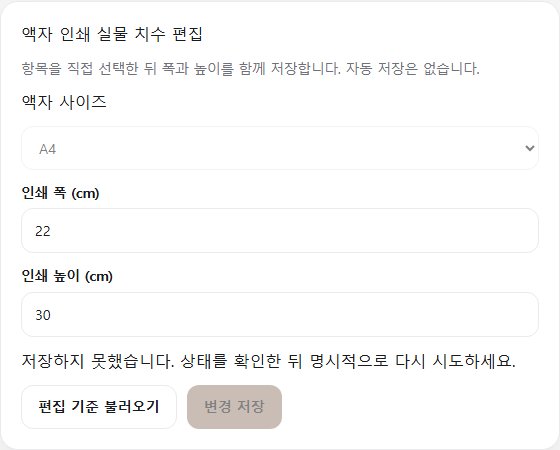
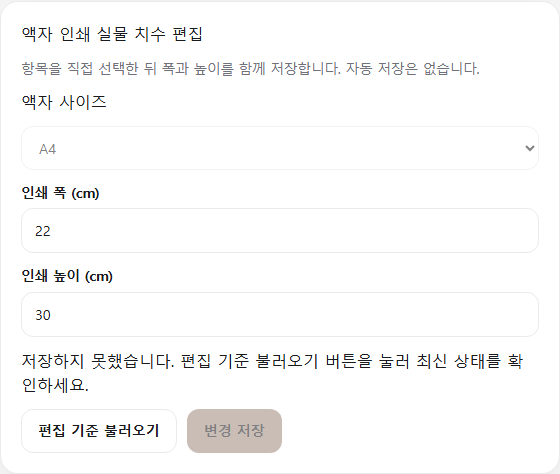
spec 094: clarify C5 failure recovery action guidance

diff --git a/apps/admin/src/admin-write/FramePrintSizeEditor.recovery-message.test.tsx b/apps/admin/src/admin-write/FramePrintSizeEditor.recovery-message.test.tsx
@@ -1,0 +1,77 @@
+import { renderToStaticMarkup } from "react-dom/server";
+import { expect, it, vi } from "vitest";
+import type { AdminWriteErrorCode } from "@denn/firebase/admin-write";
+import { FramePrintSizeEditor } from "./FramePrintSizeEditor";
+import type { AdminWriteSessionController, AdminWriteSessionSnapshot } from "./session-controller";
+
+function render(snapshot: AdminWriteSessionSnapshot) {
+  const controller: AdminWriteSessionController = {
+    getSnapshot: () => snapshot,
+    getBaseline: () => ({
+      revision: 3,
+      source: "rebuild",
+      promotedLegacyPrintSizeIds: [],
+      catalog: { schemaVersion: 1, migratedFrom: "legacy-v0", data: {} },
+    }),
+    subscribe: () => () => undefined,
+    loadBaseline: vi.fn(async () => undefined),
+    save: vi.fn(async () => undefined),
+    setDraftState: vi.fn(),
+    dispose: vi.fn(),
+  };
+  const html = renderToStaticMarkup(<FramePrintSizeEditor controller={controller} />);
+  expect(controller.loadBaseline).not.toHaveBeenCalled();
+  expect(controller.save).not.toHaveBeenCalled();
+  expect(controller.setDraftState).not.toHaveBeenCalled();
+  expect(html).toContain('role="status" aria-live="polite" data-testid="frame-print-size-status"');
+  expect(html).not.toMatch(/WRITE_|rebuild-admin-state|@denn|https?:\/\//);
+  return html;
+}
+
+const SAVE_ERRORS: readonly AdminWriteErrorCode[] = [
+  "WRITE_UPLOAD_FAILED",
+  "WRITE_HEAD_FAILED",
+  "WRITE_CLAIM_FAILED",
+  "WRITE_AUTH_REQUIRED",
+  "WRITE_FORBIDDEN",
+  "WRITE_INVALID_INPUT",
+];
+it.each(SAVE_ERRORS)("names the allowed recovery action without exposing %s", (errorCode) => {
+  const canSave = errorCode === "WRITE_UPLOAD_FAILED";
+  const html = render({
+    status: "save-error",
+    revision: 3,
+    source: "rebuild",
+    errorCode,
+    canLoad: true,
+    canEdit: false,
+    canSave,
+  });
+  const saveButton = html.match(/<button[^>]*>변경 저장<\/button>/)?.[0];
+  expect(saveButton).toBeDefined();
+  expect(saveButton?.includes('disabled=""')).toBe(!canSave);
+  expect(html).toContain(
+    canSave
+      ? "저장하지 못했습니다. 변경 저장 버튼을 눌러 다시 시도할 수 있습니다."
+      : "저장하지 못했습니다. 편집 기준 불러오기 버튼을 눌러 최신 상태를 확인하세요.",
+  );
+  expect(html).not.toContain("상태를 확인한 뒤 명시적으로 다시 시도하세요");
+});
+
+it.each([
+  ["conflict", "다른 저장이 먼저 반영됐습니다. 최신 상태를 다시 불러오세요."],
+  ["outcome-unknown", "저장 결과를 확인할 수 없습니다. 최신 상태를 다시 불러오세요."],
+  ["auth-blocked", "운영자 로그인이 필요합니다."],
+] as const)("preserves the existing %s message", (status, text) => {
+  const html = render({
+    status,
+    revision: status === "auth-blocked" ? null : 3,
+    source: status === "auth-blocked" ? null : "rebuild",
+    errorCode: null,
+    canLoad: status !== "auth-blocked",
+    canEdit: false,
+    canSave: false,
+  });
+  expect(html).toContain(text);
+  expect(html).not.toContain("저장하지 못했습니다.");
+});

diff --git a/apps/admin/src/admin-write/FramePrintSizeEditor.tsx b/apps/admin/src/admin-write/FramePrintSizeEditor.tsx
@@ -20,7 +20,6 @@ const STATUS_MESSAGE: Record<string, string> = {
   conflict: "다른 저장이 먼저 반영됐습니다. 최신 상태를 다시 불러오세요.",
   "outcome-unknown": "저장 결과를 확인할 수 없습니다. 최신 상태를 다시 불러오세요.",
   "load-error": "편집 기준을 불러오지 못했습니다.",
-  "save-error": "저장하지 못했습니다. 상태를 확인한 뒤 명시적으로 다시 시도하세요.",
 };
 
 function canonicalText(item: CatalogItemV1, key: "printWidthCm" | "printHeightCm"): string {
@@ -102,6 +101,13 @@ export function FramePrintSizeEditor({ controller }: FramePrintSizeEditorProps):
   };
 
   const editable = snapshot.canEdit && selected !== null;
+  // Use the same capability that enables the save button; this does not grant a retry.
+  const statusMessage =
+    snapshot.status === "save-error"
+      ? snapshot.canSave
+        ? "저장하지 못했습니다. 변경 저장 버튼을 눌러 다시 시도할 수 있습니다."
+        : "저장하지 못했습니다. 편집 기준 불러오기 버튼을 눌러 최신 상태를 확인하세요."
+      : STATUS_MESSAGE[snapshot.status];
   return (
     <Card>
       <div className="denn-stack" data-testid="frame-print-size-editor">
@@ -157,7 +163,7 @@ export function FramePrintSizeEditor({ controller }: FramePrintSizeEditorProps):
         />
 
         <div role="status" aria-live="polite" data-testid="frame-print-size-status">
-          {STATUS_MESSAGE[snapshot.status]}
+          {statusMessage}
         </div>
         <div className="denn-row">
           <Button

diff --git a/tests/e2e/admin-write-pending-error.spec.ts b/tests/e2e/admin-write-pending-error.spec.ts
@@ -27,8 +27,8 @@ const MESSAGES = {
   loading: "편집 기준을 불러오는 중입니다.",
   saving: "변경을 저장하는 중입니다.",
   "load-error": "편집 기준을 불러오지 못했습니다.",
-  "upload-failed": "저장하지 못했습니다. 상태를 확인한 뒤 명시적으로 다시 시도하세요.",
-  "head-failed": "저장하지 못했습니다. 상태를 확인한 뒤 명시적으로 다시 시도하세요.",
+  "upload-failed": "저장하지 못했습니다. 변경 저장 버튼을 눌러 다시 시도할 수 있습니다.",
+  "head-failed": "저장하지 못했습니다. 편집 기준 불러오기 버튼을 눌러 최신 상태를 확인하세요.",
   "auth-blocked": "운영자 로그인이 필요합니다.",
 };
 const records: Record<string, unknown> = {};

diff --git a/docs/rebuild/results/spec-093/README.md b/docs/rebuild/results/spec-093/README.md
@@ -4,23 +4,28 @@
 준비 및 명시 복구: [093 계약](../../specs/093-admin-c5-pending-error-audit.md).
 시각 판정: [감사 보고서](../../../codex-claude-handoff/reviews/2026-09-07-spec-093-admin-c5-pending-error-audit.md).
 
+2026-09-07 spec094 재검증: upload-failed/head-failed 6PNG·측정·해시를 문구 수정 후 갱신했다.
+나머지12PNG는093과 byte 동일. F-9 해소 판정과 현재 시각 결과는
+[094 검수](../../../codex-claude-handoff/reviews/2026-09-07-spec-094-admin-c5-recovery-guidance.md) 참조.
+수정 전093 증거는 `1e322c1`에 보존되며 과거 판정과 현재 PNG를 혼동하지 않는다.
+
 | PNG | State/preparation (contract) | Viewport | Provenance | URL | Selector | SHA-256 | Verdict |
 |---|---|---|---|---|---|---|---|
 | c5-loading-320x568.png | loading | 320x568 | PRODUCT_COMPONENT_IN_SYNTHETIC_FIXTURE | http://localhost:4184/e2e-admin-write-fixture.html?audit=spec093 | .denn-card:has([data-testid="frame-print-size-editor"]) | a1e8e18395f516ec09b74ced21a836b139449ac8be208fd5082903c00762055e | PASS / visual: report |
 | c5-saving-320x568.png | saving | 320x568 | PRODUCT_COMPONENT_IN_SYNTHETIC_FIXTURE | http://localhost:4184/e2e-admin-write-fixture.html?audit=spec093 | .denn-card:has([data-testid="frame-print-size-editor"]) | b8bafcf0a9b964a132b542a5fbdb2dbd16b8cf9b963dc3b2d12baf9a5b1c2431 | PASS / visual: report |
 | c5-load-error-320x568.png | load-error | 320x568 | PRODUCT_COMPONENT_IN_SYNTHETIC_FIXTURE | http://localhost:4184/e2e-admin-write-fixture.html?audit=spec093 | .denn-card:has([data-testid="frame-print-size-editor"]) | e209ca241913e790e499bbffb82e0e185d87ced67f84eac7968feb8779ee113b | PASS / visual: report |
-| c5-upload-failed-320x568.png | upload-failed | 320x568 | PRODUCT_COMPONENT_IN_SYNTHETIC_FIXTURE | http://localhost:4184/e2e-admin-write-fixture.html?audit=spec093 | .denn-card:has([data-testid="frame-print-size-editor"]) | 1e5ddfd54cdba9bb82c69ce0191e9e876d320041df64e9f774ad008bdbb64f6d | PASS / visual: report |
-| c5-head-failed-320x568.png | head-failed | 320x568 | PRODUCT_COMPONENT_IN_SYNTHETIC_FIXTURE | http://localhost:4184/e2e-admin-write-fixture.html?audit=spec093 | .denn-card:has([data-testid="frame-print-size-editor"]) | c5961bd309fbd5ce921f3b8f564f0e28542be7526585443faef27f96cd676f76 | PASS / visual: report |
+| c5-upload-failed-320x568.png | upload-failed | 320x568 | PRODUCT_COMPONENT_IN_SYNTHETIC_FIXTURE | http://localhost:4184/e2e-admin-write-fixture.html?audit=spec093 | .denn-card:has([data-testid="frame-print-size-editor"]) | e12e0afadde039e3a4a44c7e91e43bd631bad989394427fa96022bc96b67a827 | PASS / visual: report |
+| c5-head-failed-320x568.png | head-failed | 320x568 | PRODUCT_COMPONENT_IN_SYNTHETIC_FIXTURE | http://localhost:4184/e2e-admin-write-fixture.html?audit=spec093 | .denn-card:has([data-testid="frame-print-size-editor"]) | 63b3d0a15b400e106ef37e416cf99b52b93cfb7d5dc06bba3bb800e15df91b18 | PASS / visual: report |
 | c5-auth-blocked-320x568.png | auth-blocked | 320x568 | PRODUCT_COMPONENT_IN_SYNTHETIC_FIXTURE | http://localhost:4184/e2e-admin-write-fixture.html?audit=spec093 | .denn-card:has([data-testid="frame-print-size-editor"]) | 0b52eca43f6d54dce7a9ec7535e4c7afc3ed0cff74b789a99506384ac5efcb08 | PASS / visual: report |
 | c5-loading-390x844.png | loading | 390x844 | PRODUCT_COMPONENT_IN_SYNTHETIC_FIXTURE | http://localhost:4184/e2e-admin-write-fixture.html?audit=spec093 | .denn-card:has([data-testid="frame-print-size-editor"]) | 3c8eb3c9faa04eddeed687d42939fab514139fd689c4df2a18bed983f8d7110b | PASS / visual: report |
 | c5-saving-390x844.png | saving | 390x844 | PRODUCT_COMPONENT_IN_SYNTHETIC_FIXTURE | http://localhost:4184/e2e-admin-write-fixture.html?audit=spec093 | .denn-card:has([data-testid="frame-print-size-editor"]) | f190cf6ff9290a79cbb9168e6e31ab89c5b76dfee16265efefe5835e2a888387 | PASS / visual: report |
 | c5-load-error-390x844.png | load-error | 390x844 | PRODUCT_COMPONENT_IN_SYNTHETIC_FIXTURE | http://localhost:4184/e2e-admin-write-fixture.html?audit=spec093 | .denn-card:has([data-testid="frame-print-size-editor"]) | cc58ac58098b6aa89763cc74411d72e737c15fb6deeacdc2767c4ba2ef864a80 | PASS / visual: report |
-| c5-upload-failed-390x844.png | upload-failed | 390x844 | PRODUCT_COMPONENT_IN_SYNTHETIC_FIXTURE | http://localhost:4184/e2e-admin-write-fixture.html?audit=spec093 | .denn-card:has([data-testid="frame-print-size-editor"]) | 2795b718314b2f5bc94f93841665874f0092dd7d65e6f9d539fb3ad1c4cdc6b1 | PASS / visual: report |
-| c5-head-failed-390x844.png | head-failed | 390x844 | PRODUCT_COMPONENT_IN_SYNTHETIC_FIXTURE | http://localhost:4184/e2e-admin-write-fixture.html?audit=spec093 | .denn-card:has([data-testid="frame-print-size-editor"]) | cc2a83ee05ceb384eac90932feb82738618b4a7e7c7172201cca4b7ea0c37200 | PASS / visual: report |
+| c5-upload-failed-390x844.png | upload-failed | 390x844 | PRODUCT_COMPONENT_IN_SYNTHETIC_FIXTURE | http://localhost:4184/e2e-admin-write-fixture.html?audit=spec093 | .denn-card:has([data-testid="frame-print-size-editor"]) | fb60c4057c156882b289ecdb98873a3358a4e473e6de6eef016d5229cfe08b32 | PASS / visual: report |
+| c5-head-failed-390x844.png | head-failed | 390x844 | PRODUCT_COMPONENT_IN_SYNTHETIC_FIXTURE | http://localhost:4184/e2e-admin-write-fixture.html?audit=spec093 | .denn-card:has([data-testid="frame-print-size-editor"]) | 54377e4a3e884ac0b975ccab772c1b72180f1bfc9e5b83b494459f60b82d28cd | PASS / visual: report |
 | c5-auth-blocked-390x844.png | auth-blocked | 390x844 | PRODUCT_COMPONENT_IN_SYNTHETIC_FIXTURE | http://localhost:4184/e2e-admin-write-fixture.html?audit=spec093 | .denn-card:has([data-testid="frame-print-size-editor"]) | b8ffa06903b597af8e5093587e7e89a7ce9caca494d199200b773f450c4d5f52 | PASS / visual: report |
 | c5-loading-1280x800.png | loading | 1280x800 | PRODUCT_COMPONENT_IN_SYNTHETIC_FIXTURE | http://localhost:4184/e2e-admin-write-fixture.html?audit=spec093 | .denn-card:has([data-testid="frame-print-size-editor"]) | b86f3f4702358952ad072e640661384187d5030fc21c5392120943356ccaeeca | PASS / visual: report |
 | c5-saving-1280x800.png | saving | 1280x800 | PRODUCT_COMPONENT_IN_SYNTHETIC_FIXTURE | http://localhost:4184/e2e-admin-write-fixture.html?audit=spec093 | .denn-card:has([data-testid="frame-print-size-editor"]) | ff275cf4aee8d9c493f0dc8597706995a76568bed6ea024b19b86cce92e3a093 | PASS / visual: report |
 | c5-load-error-1280x800.png | load-error | 1280x800 | PRODUCT_COMPONENT_IN_SYNTHETIC_FIXTURE | http://localhost:4184/e2e-admin-write-fixture.html?audit=spec093 | .denn-card:has([data-testid="frame-print-size-editor"]) | 4ddb2f1c4279ccc1d9a0c3b5b8e95609b16b4c8f0212aad3aa97e87a847087c8 | PASS / visual: report |
-| c5-upload-failed-1280x800.png | upload-failed | 1280x800 | PRODUCT_COMPONENT_IN_SYNTHETIC_FIXTURE | http://localhost:4184/e2e-admin-write-fixture.html?audit=spec093 | .denn-card:has([data-testid="frame-print-size-editor"]) | 0657b37107e16ffb488172d13fbaf0405d64cbc4137b454e6f67a580ddeb9d20 | PASS / visual: report |
-| c5-head-failed-1280x800.png | head-failed | 1280x800 | PRODUCT_COMPONENT_IN_SYNTHETIC_FIXTURE | http://localhost:4184/e2e-admin-write-fixture.html?audit=spec093 | .denn-card:has([data-testid="frame-print-size-editor"]) | 040c8b5fedd81299d9b1e9fa5044e5a45ef432b0be7a4ce9bfa57d72310082d0 | PASS / visual: report |
+| c5-upload-failed-1280x800.png | upload-failed | 1280x800 | PRODUCT_COMPONENT_IN_SYNTHETIC_FIXTURE | http://localhost:4184/e2e-admin-write-fixture.html?audit=spec093 | .denn-card:has([data-testid="frame-print-size-editor"]) | c1fbad5d161bbc179af751f6a3abee8c680440996dafa7a0480fdd9a401867e3 | PASS / visual: report |
+| c5-head-failed-1280x800.png | head-failed | 1280x800 | PRODUCT_COMPONENT_IN_SYNTHETIC_FIXTURE | http://localhost:4184/e2e-admin-write-fixture.html?audit=spec093 | .denn-card:has([data-testid="frame-print-size-editor"]) | 57634f35aafbd846f83abee5b1da129db3d10a804baf1a7f1e37a3dac2f3edf1 | PASS / visual: report |
 | c5-auth-blocked-1280x800.png | auth-blocked | 1280x800 | PRODUCT_COMPONENT_IN_SYNTHETIC_FIXTURE | http://localhost:4184/e2e-admin-write-fixture.html?audit=spec093 | .denn-card:has([data-testid="frame-print-size-editor"]) | 5e1342f59b750a7a18c6da3ff5cc944111ac8d70b785a9bbb1cadb61759d5883 | PASS / visual: report |
